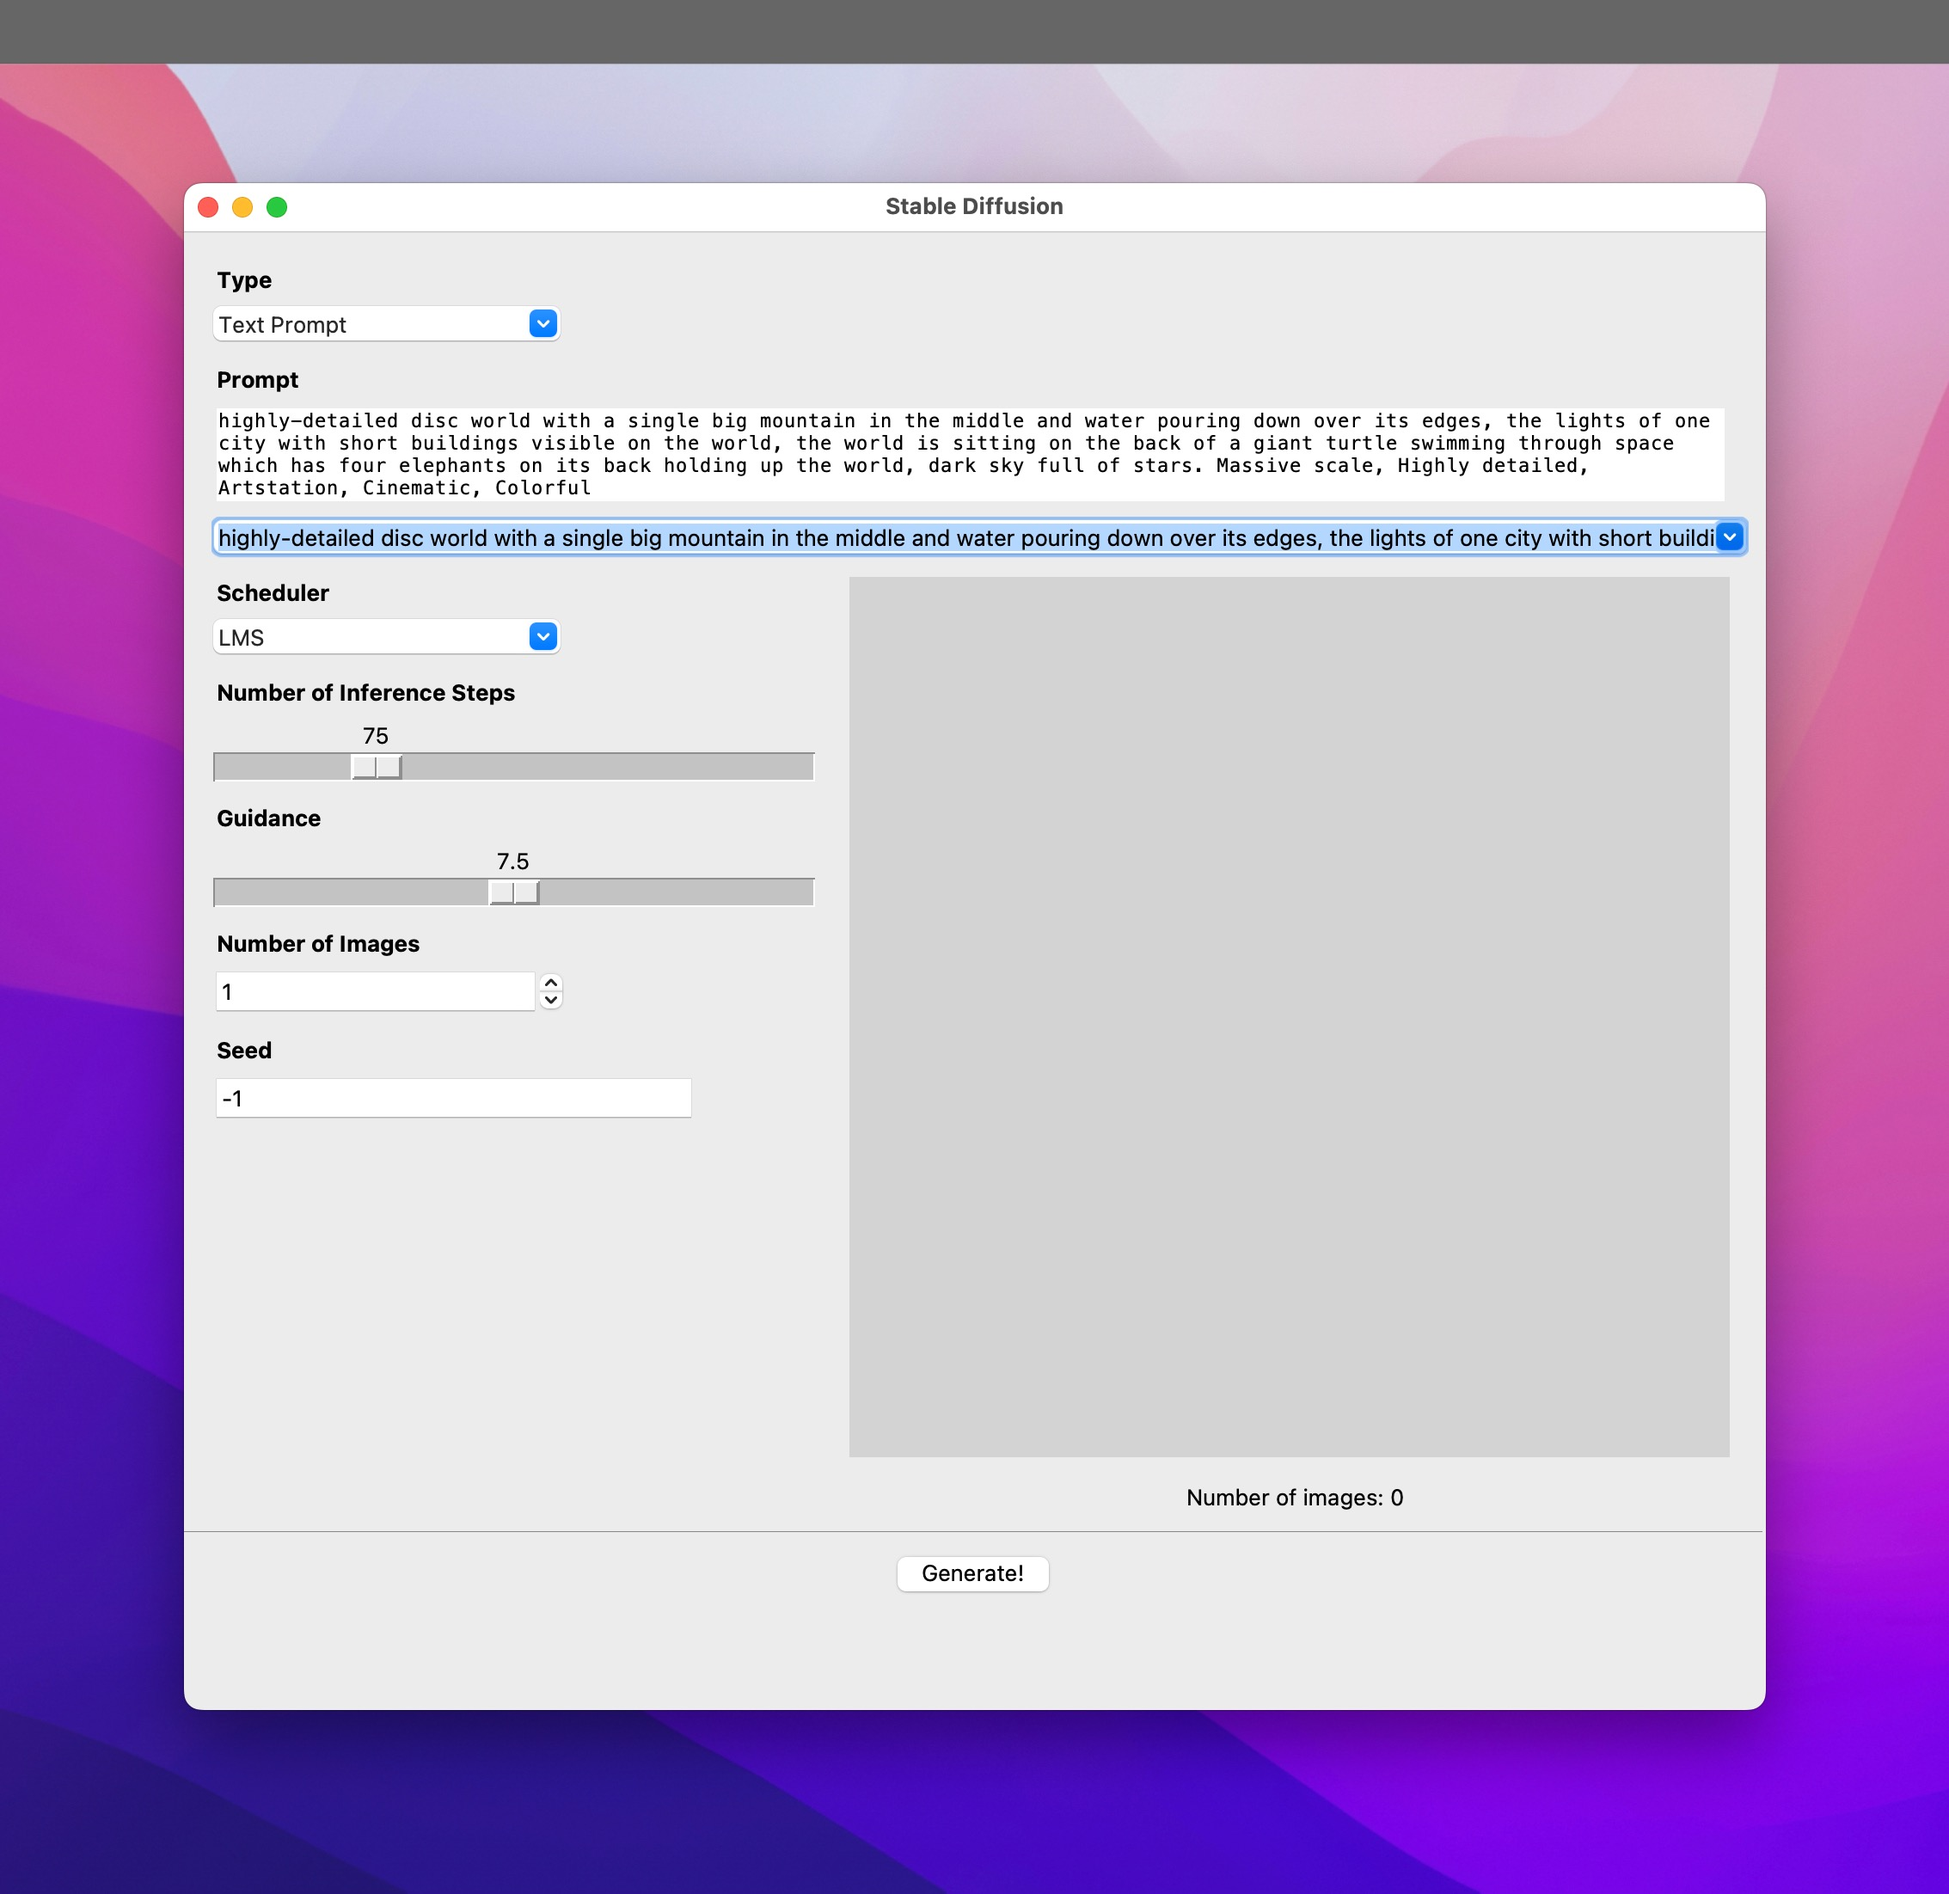
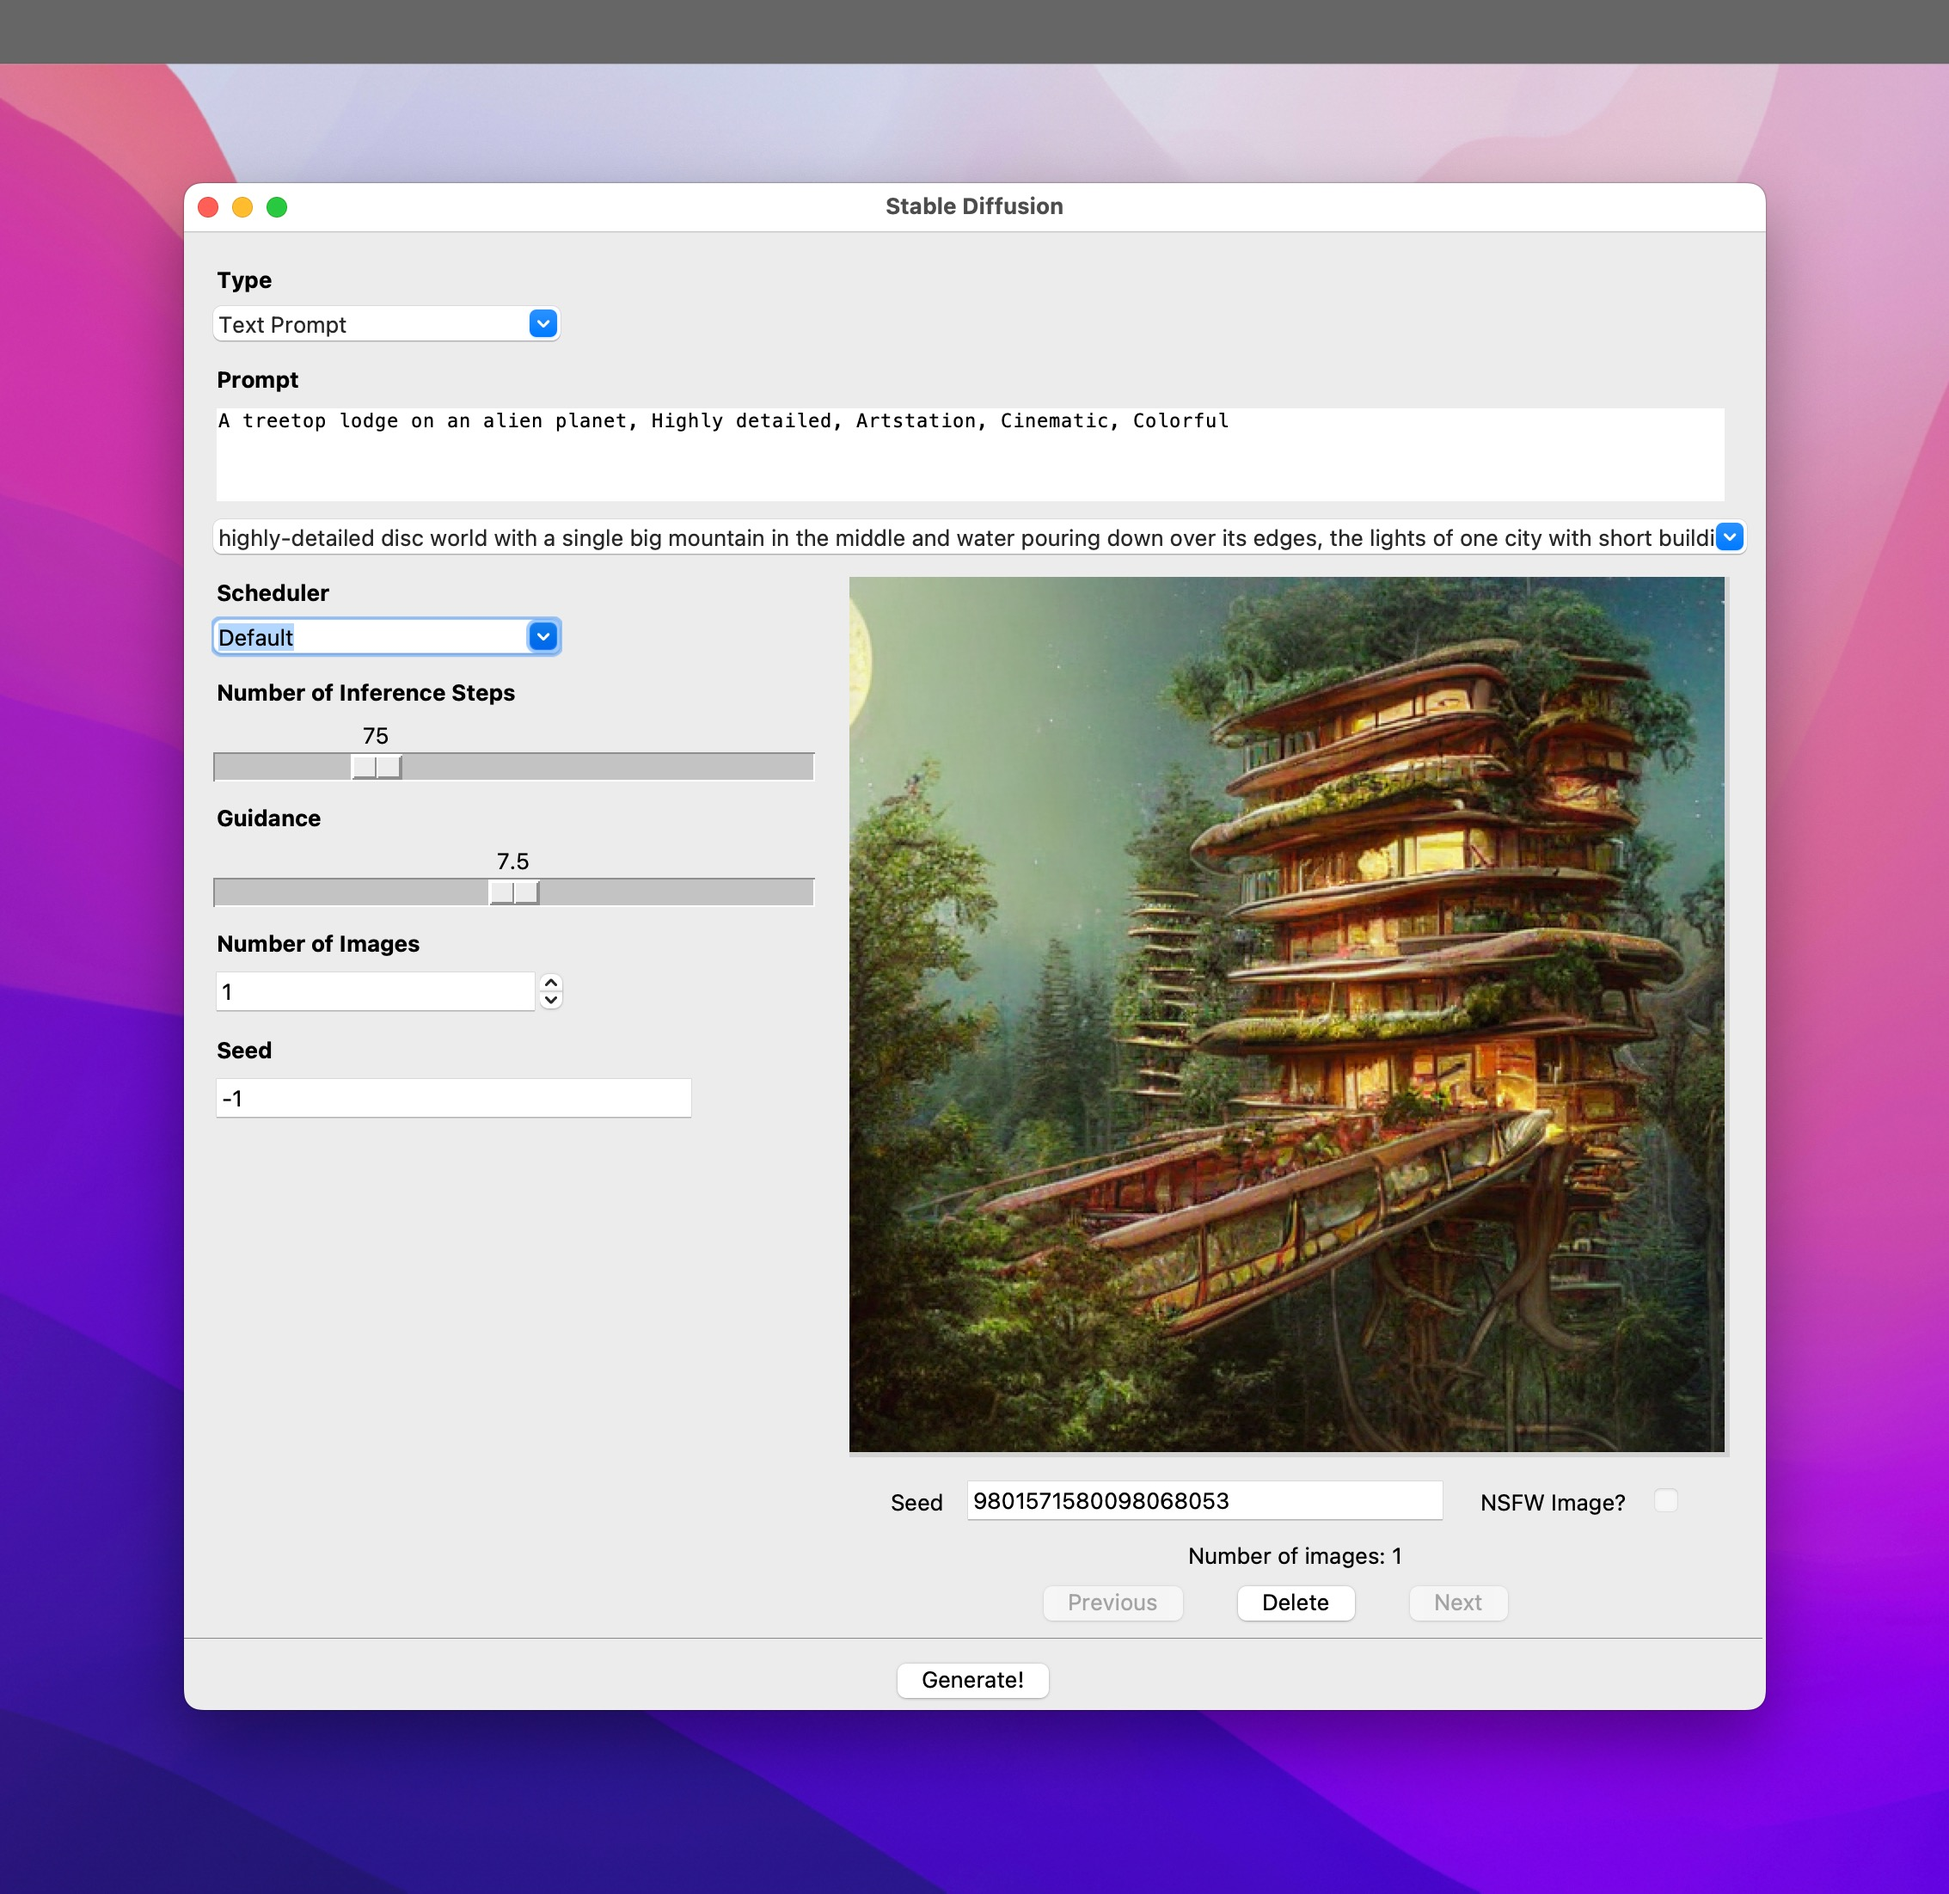
Update Docs
* Update image and description

Changed region(s): [[0.0926, 0.2161, 0.8955, 0.8643], [0.5558, 0.8334, 0.5867, 0.8643], [0.494, 0.8643, 0.5249, 0.8951]]

diff --git a/README.md b/README.md
@@ -6,6 +6,16 @@ This repo is my work on getting Stable Diffusion working on Apple Silicon macs b
 
 ![gui](assets/gui.jpg)
 
+The GUI has the following functionality:
+
+* You can choose between generating via just a text prompt or a text + image prompt
+* Remembers your last 20 prompts and allows you to select an old prompt via history list
+* Has the ability to switch between multiple schedulers to compare generated images
+* Can generate more than one image at a time and allows you to view all generated images in the GUI
+* Saves all generated images and the accompanying prompt info to hard drive
+* Allows you to delete any image and it's prompt info from the GUI itself
+* Shows you the seed for any image so that you can use that seed to generate image variants
+
 ## Installation
 
 You will need the following:
